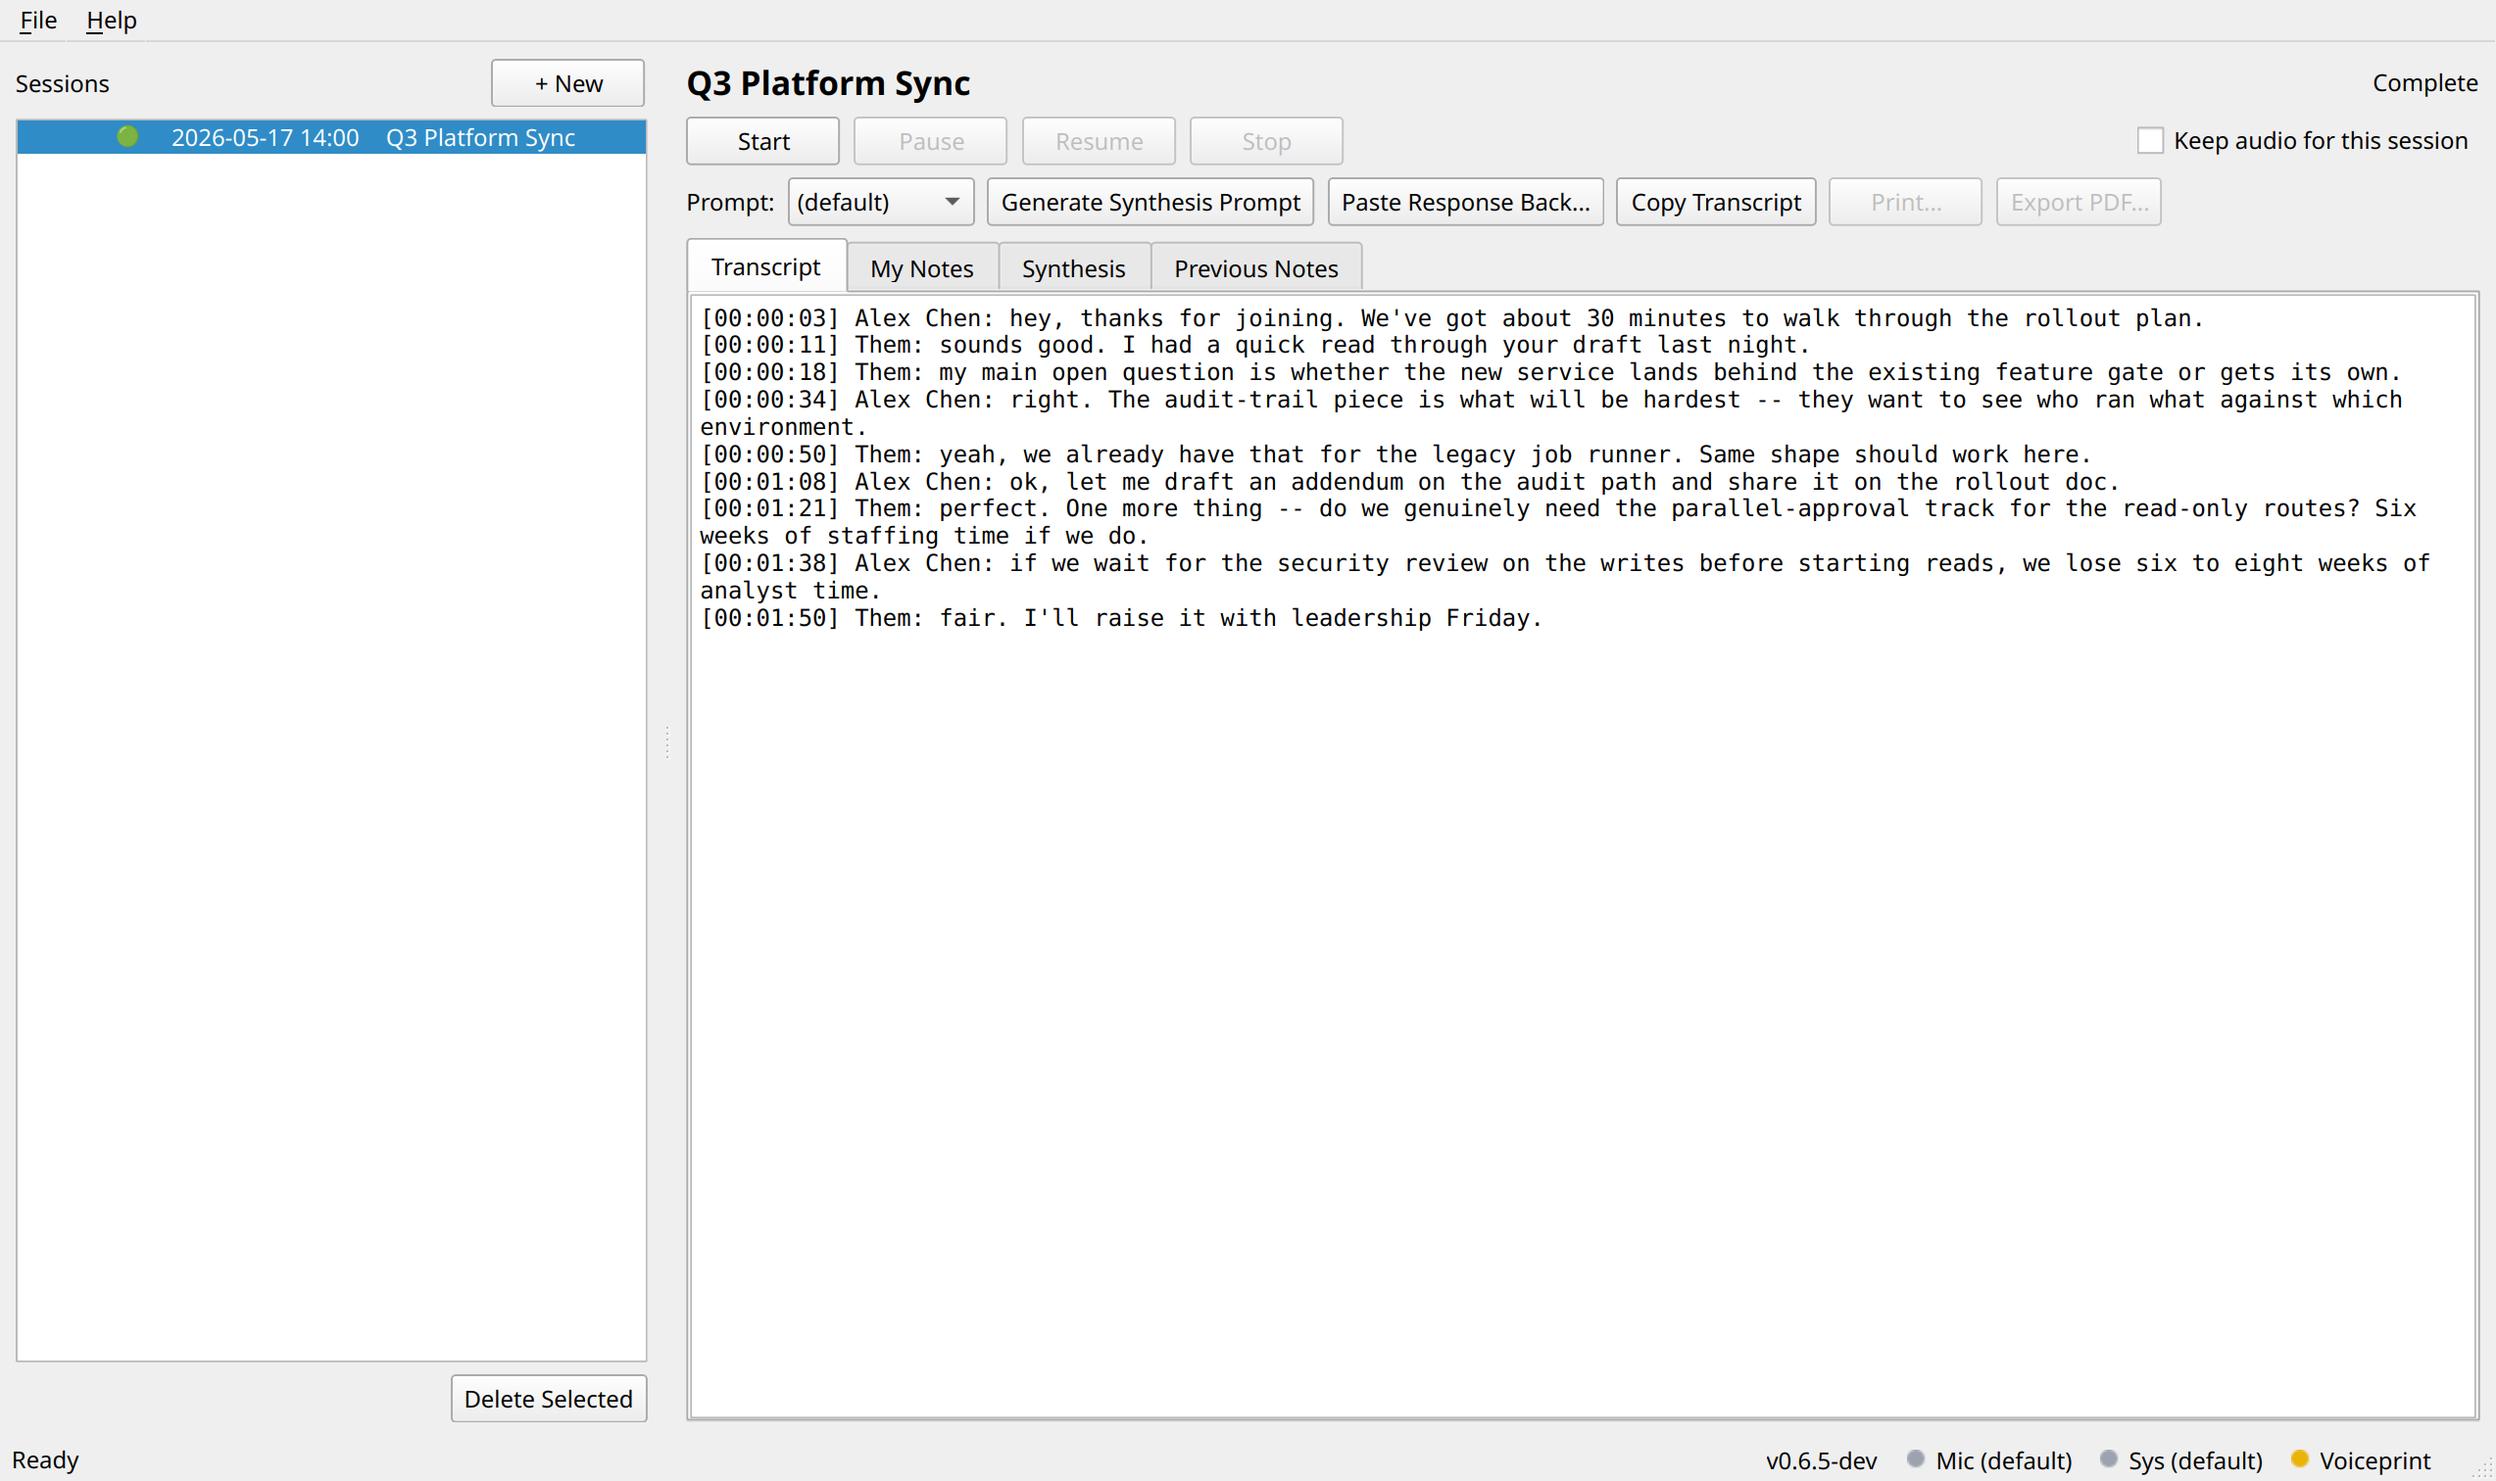
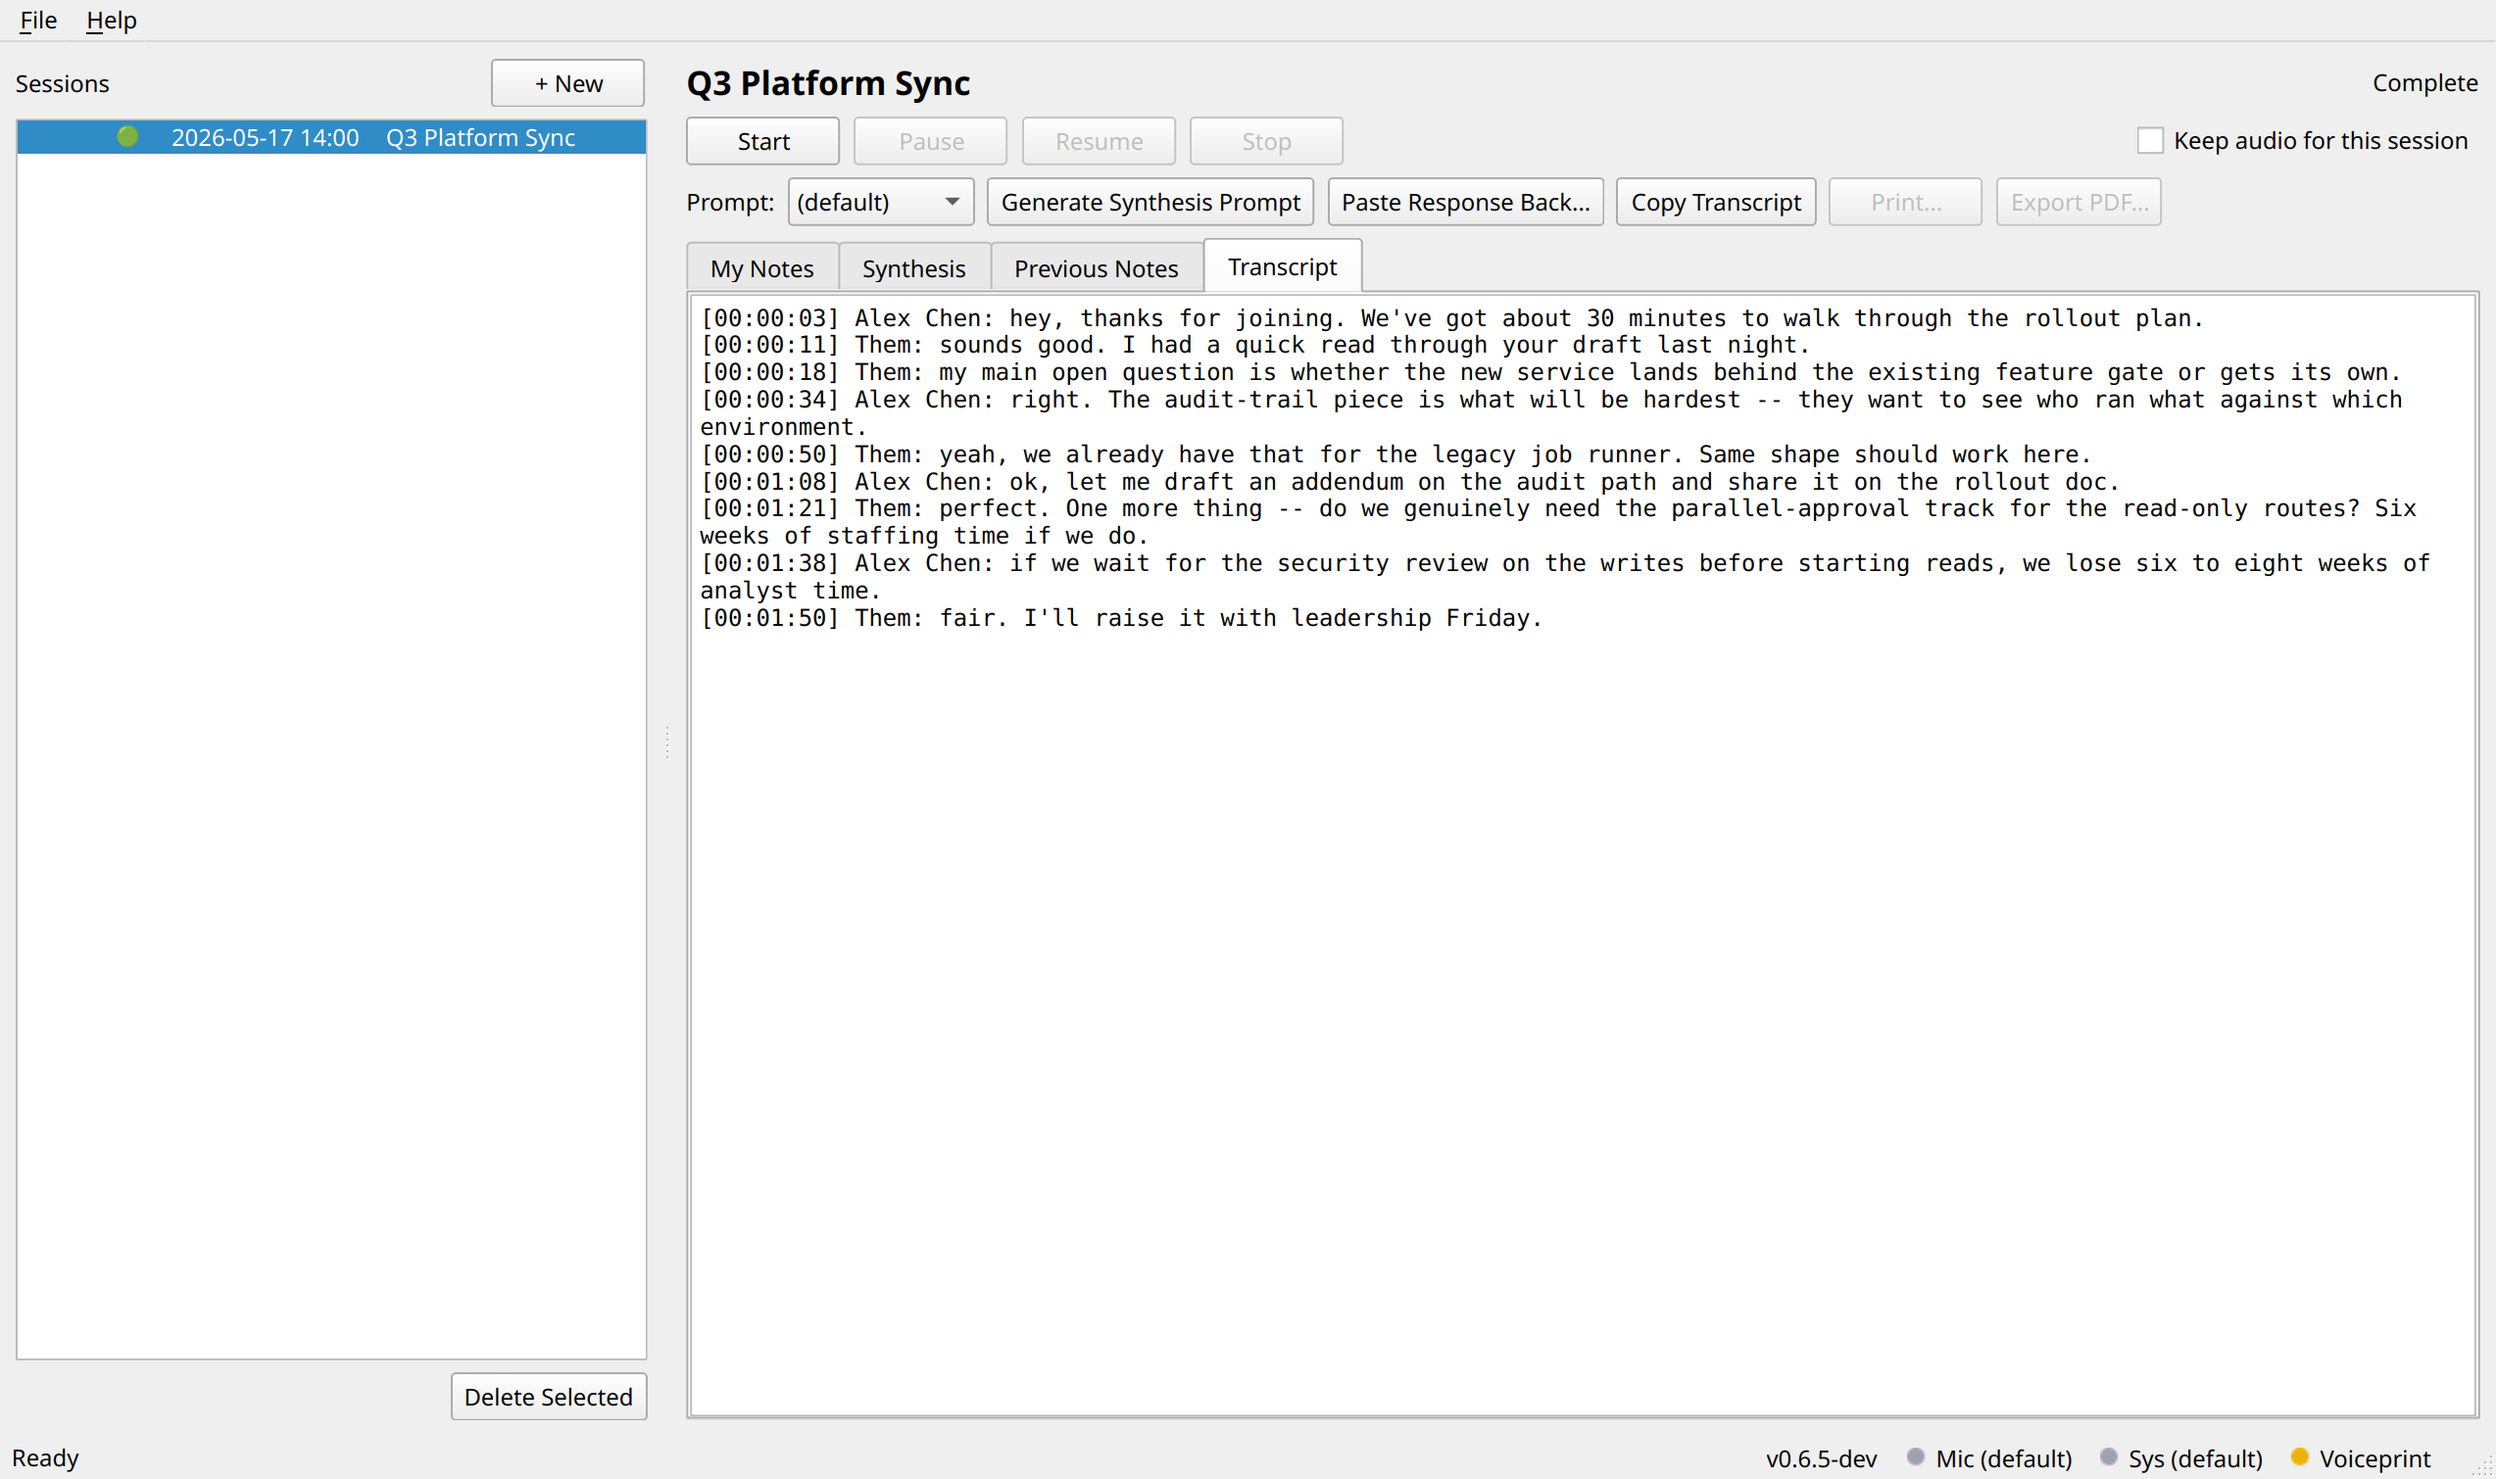
Move Transcript to the rightmost tab; default to capture-only; empty-state hint
Three small UX changes against the post-recording flow:

- Tab order now reads My Notes / Synthesis / Previous Notes / Transcript.
  The user-curated tabs and the LLM synthesis are what people read after
  a meeting; the raw transcript is a reference rather than the starting
  point. Tab indices in scripts/gen_screenshots.py + the affected
  session_view test moved to match.
- Default capture_only_mode is now True. Fresh installs skip the live
  transcription pass; the post-Stop batch pass still runs and populates
  the Transcript tab when it finishes. Existing user configs keep
  whichever value they had saved.
- The Transcript pane shows placeholder text when empty
  ("Transcription will appear here once the recording is stopped and
  the post-meeting transcription pass has finished. Live transcription
  is off by default in v0.6.5..."). An empty editor could otherwise
  read as a bug; this communicates expected state.

619 tests still passing.

diff --git a/meeting_notetaker/ui/session_view.py b/meeting_notetaker/ui/session_view.py
@@ -265,15 +265,11 @@ class SessionView(QWidget):
         )
         layout.addWidget(self._synth_banner)
 
-        # Transcript / My Notes / Synthesis / Previous tabs
+        # My Notes / Synthesis / Previous Notes / Transcript. Transcript
+        # is the rightmost tab as of v0.6.5: the user-curated and synthesis
+        # tabs are what people read after a meeting; the raw transcript
+        # is a reference rather than a starting point.
         self._tabs = QTabWidget(self)
-        self._transcript_view = QPlainTextEdit(self)
-        self._transcript_view.setReadOnly(True)
-        self._transcript_view.setLineWrapMode(QPlainTextEdit.LineWrapMode.WidgetWidth)
-        mono = QFont("Consolas")
-        mono.setStyleHint(QFont.StyleHint.Monospace)
-        self._transcript_view.setFont(mono)
-        self._tabs.addTab(self._transcript_view, "Transcript")
 
         self._live_notes_editor = LiveNotesWidget(self)
         self._live_notes_editor.setPlaceholderText(
@@ -311,6 +307,26 @@ class SessionView(QWidget):
             self._on_previous_delete_requested
         )
         self._tabs.addTab(self._previous_view, "Previous Notes")
+
+        self._transcript_view = QPlainTextEdit(self)
+        self._transcript_view.setReadOnly(True)
+        self._transcript_view.setLineWrapMode(QPlainTextEdit.LineWrapMode.WidgetWidth)
+        mono = QFont("Consolas")
+        mono.setStyleHint(QFont.StyleHint.Monospace)
+        self._transcript_view.setFont(mono)
+        # An empty transcript pane could read as a bug. Set placeholder
+        # text that explains the expected state: the transcript only
+        # populates after the recording is stopped and the batch pass
+        # has finished. With capture-only mode being the v0.6.5 default,
+        # this is the normal state during a recording.
+        self._transcript_view.setPlaceholderText(
+            "Transcription will appear here once the recording is stopped "
+            "and the post-meeting transcription pass has finished.\n\n"
+            "Live transcription is off by default in v0.6.5; toggle it in "
+            "Settings if you'd rather see lines arrive in real time during "
+            "the meeting."
+        )
+        self._tabs.addTab(self._transcript_view, "Transcript")
 
         # Horizontal container holding the tab widget on the left and the
         # click-to-tag attendee sidebar on the right. The sidebar is

diff --git a/scripts/gen_screenshots.py b/scripts/gen_screenshots.py
@@ -289,8 +289,10 @@ def _build_main_window(*, automation_enabled: bool = False) -> MainWindow:
 
 
 def shot_main_transcript() -> None:
+    # Transcript moved to the rightmost tab in v0.6.5. Order:
+    # 0 My Notes, 1 Synthesis, 2 Previous Notes, 3 Transcript.
     win = _build_main_window()
-    win.session_view._tabs.setCurrentIndex(0)
+    win.session_view._tabs.setCurrentIndex(3)
     QApplication.processEvents()
     _grab(win, "01-main-transcript.png", autosize=False)
     win.close()
@@ -298,7 +300,7 @@ def shot_main_transcript() -> None:
 
 def shot_main_my_notes_edit() -> None:
     win = _build_main_window()
-    win.session_view._tabs.setCurrentIndex(1)
+    win.session_view._tabs.setCurrentIndex(0)
     # Force edit mode (template-seeded notes default to preview when populated).
     win.session_view._live_notes_editor.set_preview_mode(False)
     QApplication.processEvents()
@@ -308,7 +310,7 @@ def shot_main_my_notes_edit() -> None:
 
 def shot_main_my_notes_preview() -> None:
     win = _build_main_window()
-    win.session_view._tabs.setCurrentIndex(1)
+    win.session_view._tabs.setCurrentIndex(0)
     win.session_view._live_notes_editor.set_preview_mode(True)
     QApplication.processEvents()
     _grab(win, "03-main-my-notes-preview.png", autosize=False)
@@ -317,7 +319,7 @@ def shot_main_my_notes_preview() -> None:
 
 def shot_main_synthesis() -> None:
     win = _build_main_window()
-    win.session_view._tabs.setCurrentIndex(2)
+    win.session_view._tabs.setCurrentIndex(1)
     # Synthesis defaults to preview mode in set_session; explicit set is a no-op
     # but keeps the assumption in the script obvious.
     win.session_view._notes_view.set_preview_mode(True)
@@ -328,7 +330,7 @@ def shot_main_synthesis() -> None:
 
 def shot_main_previous_notes() -> None:
     win = _build_main_window()
-    win.session_view._tabs.setCurrentIndex(3)
+    win.session_view._tabs.setCurrentIndex(2)
     QApplication.processEvents()
     _grab(win, "05-main-previous-notes.png", autosize=False)
     win.close()

diff --git a/meeting_notetaker/utils/config.py b/meeting_notetaker/utils/config.py
@@ -4,6 +4,7 @@ Schema (config.toml):
 
     [audio]
     retain_audio_default = false
+    retain_format = "opus"             # opus / flac / wav; format used when retain_audio is True
     vad_enabled = true
     vad_min_silence_ms = 500
     mic_device_name = ""               # empty -> system default; substring match
@@ -11,7 +12,7 @@ Schema (config.toml):
 
     [transcription]
     model_size = "small.en"
-    capture_only_mode = false
+    capture_only_mode = true          # default off for live transcription as of v0.6.5
     skip_batch_refinement = false   # if true, no post-Stop full-recording pass -- live transcript is final
     fast_batch = true               # batch pass uses beam_size=1 (~3x faster). flip off for legal-grade verbatim.
     cpu_threads = 0                 # 0 = auto (cpu_count // num_workers); else fixed value passed to CT2
@@ -82,7 +83,12 @@ class AudioConfig:
 @dataclass
 class TranscriptionConfig:
     model_size: str = "small.en"
-    capture_only_mode: bool = False
+    # v0.6.5+: default is capture-only (no live transcription pass).
+    # The post-meeting batch transcription on Stop still runs and is
+    # what populates the Transcript tab. Users who want lines arriving
+    # mid-meeting can flip this off in Settings. Existing configs keep
+    # the explicit value they had saved.
+    capture_only_mode: bool = True
     skip_batch_refinement: bool = False
     fast_batch: bool = True
     cpu_threads: int = 0

diff --git a/tests/test_session_view_synthesis_edit.py b/tests/test_session_view_synthesis_edit.py
@@ -93,8 +93,8 @@ def test_flush_pending_notes_is_safe_when_no_session(qt_app):
 def test_active_tab_text_returns_notes_source_for_synthesis(qt_app, fake_session):
     view = SessionView()
     view.set_session(fake_session, transcript="", notes="# Hello", previous_notes_paths=[])
-    # Tabs: Transcript=0, My Notes=1, Synthesis=2, Previous=3
-    view._tabs.setCurrentIndex(2)
+    # v0.6.5 tab order: My Notes=0, Synthesis=1, Previous=2, Transcript=3.
+    view._tabs.setCurrentIndex(1)
     assert view.active_tab_text() == "# Hello"
     assert view.active_tab_label() == "Synthesis"
 

diff --git a/tests/test_config.py b/tests/test_config.py
@@ -36,6 +36,11 @@ def test_load_with_missing_file_returns_defaults(isolated_data_dir):
     cfg = Config.load()
     assert cfg.transcription.model_size == "small.en"
     assert cfg.audio.retain_audio_default is False
+    # v0.6.5: fresh installs default to capture-only (no live
+    # transcription pass). The post-Stop batch pass is what populates
+    # the Transcript tab. Pin so a future refactor doesn't silently
+    # flip live transcription back on.
+    assert cfg.transcription.capture_only_mode is True
 
 
 def test_validate_rejects_bad_values(isolated_data_dir):
